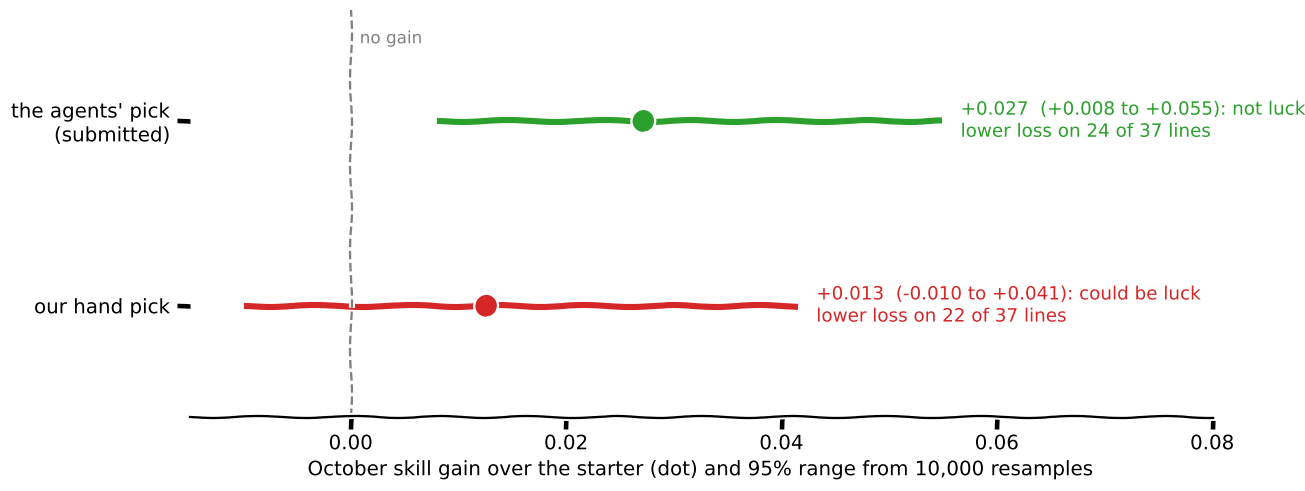
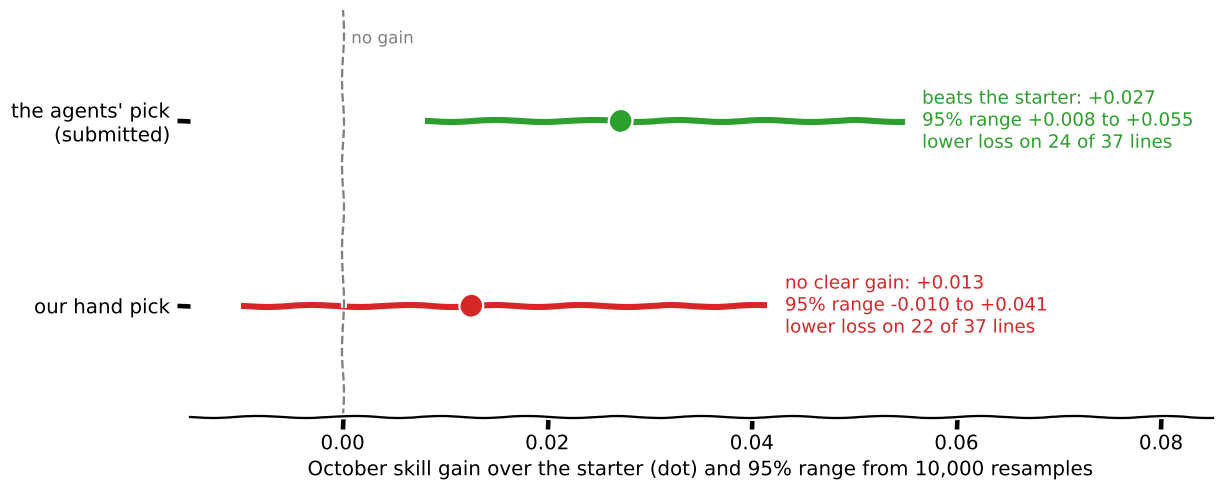
Slides: cost scope, luck-check wording, resale source
Cost line names what the $0.10 covers (Modal + suggester LLM) and says the
Claude agent sessions are separate. Luck check says the agents' pick beats
the starter in the resample check and the hand pick does not. Resale line
gives the range and the script behind it.

diff --git a/docs/slides/index.html b/docs/slides/index.html
@@ -82,7 +82,7 @@ th { font-weight:600; color:var(--mute); }
 <section class="slide">
   <h2>Modal makes every idea a full backtest</h2>
   <img class="fig" src="img/modal.png" alt="A batch of ideas fans out to six Modal containers, one idea each">
-  <p style="margin-top:1.5vh">About 100,000 forecast steps an hour once warm. Modal cost under $0.03 for all runs; the whole project, LLM included, under $0.10.</p>
+  <p style="margin-top:1.5vh">About 100,000 forecast steps an hour once warm. Modal cost under $0.03 for all runs; with the suggester LLM, under $0.10. The Claude agent sessions that built it are separate.</p>
   <p class="small mute">So the loop can afford a real search: 8 rounds, 24 ideas, each scored on every July&ndash;September day.</p>
 </section>
 
@@ -97,7 +97,7 @@ th { font-weight:600; color:var(--mute); }
     </div>
     <div style="flex:1.2">
       <img class="fig" src="img/gain.png" alt="October gain over the starter with 95% ranges: agents' pick above zero, hand pick crosses zero">
-      <p class="small mute">The luck check resamples the 37 lines 10,000 times. Our own hand pick could be luck. The agents' pick is not.</p>
+      <p class="small mute">The luck check resamples the 37 lines 10,000 times. The agents' pick beats the starter in this check; our hand pick does not.</p>
     </div>
   </div>
 </section>
@@ -136,7 +136,7 @@ th { font-weight:600; color:var(--mute); }
     <li>Price a lease off the 10&ndash;90% range. Posted prices sit still for weeks, then jump.</li>
     <li>Read a line next to others from the same kind of seller. That was our one real win.</li>
     <li>Expect seller types to differ. AWS spot moves in small steps that keep going; rate cards jump and stop. That is our reading of the momentum result, not a direct test.</li>
-    <li>Plan for resale: we expect an H100 to rent for about $3/hr and sell for about $4,700 in November 2028.</li>
+    <li>Plan for resale: our mid case has an H100 renting for about $3/hr and selling for about $4,700 in November 2028 (range $2,800 to $7,400). Source: analysis/residual.py, set against two outside used-price reports.</li>
   </ul>
 </section>
 

diff --git a/docs/slides/charts.py b/docs/slides/charts.py
@@ -109,13 +109,13 @@ def gain():
         c = "tab:green" if lo > 0 else "tab:red"
         ax.plot([lo, hi], [y, y], color=c, lw=4)
         ax.plot([g], [y], "o", color=c, ms=13)
-        verdict = "not luck" if lo > 0 else "could be luck"
-        ax.text(hi + 0.002, y, f"{g:+.3f}  ({lo:+.3f} to {hi:+.3f}): {verdict}\nlower loss on {n} of 37 lines",
+        verdict = "beats the starter" if lo > 0 else "no clear gain"
+        ax.text(hi + 0.002, y, f"{verdict}: {g:+.3f}\n95% range {lo:+.3f} to {hi:+.3f}\nlower loss on {n} of 37 lines",
                 va="center", fontsize=12, color=c)
     ax.axvline(0, color="grey", ls="--", lw=1.5)
     ax.text(0.0008, 1.42, "no gain", color="grey", fontsize=11)
     ax.set_yticks([0, 1]); ax.set_yticklabels([labels["model"], labels["loop"]])
-    ax.set_ylim(-0.6, 1.6); ax.set_xlim(-0.015, 0.08)
+    ax.set_ylim(-0.6, 1.6); ax.set_xlim(-0.015, 0.085)
     ax.set_xlabel("October skill gain over the starter (dot) and 95% range from 10,000 resamples")
     ax.spines[["top", "right", "left"]].set_visible(False)
     save(fig, "gain.png")
